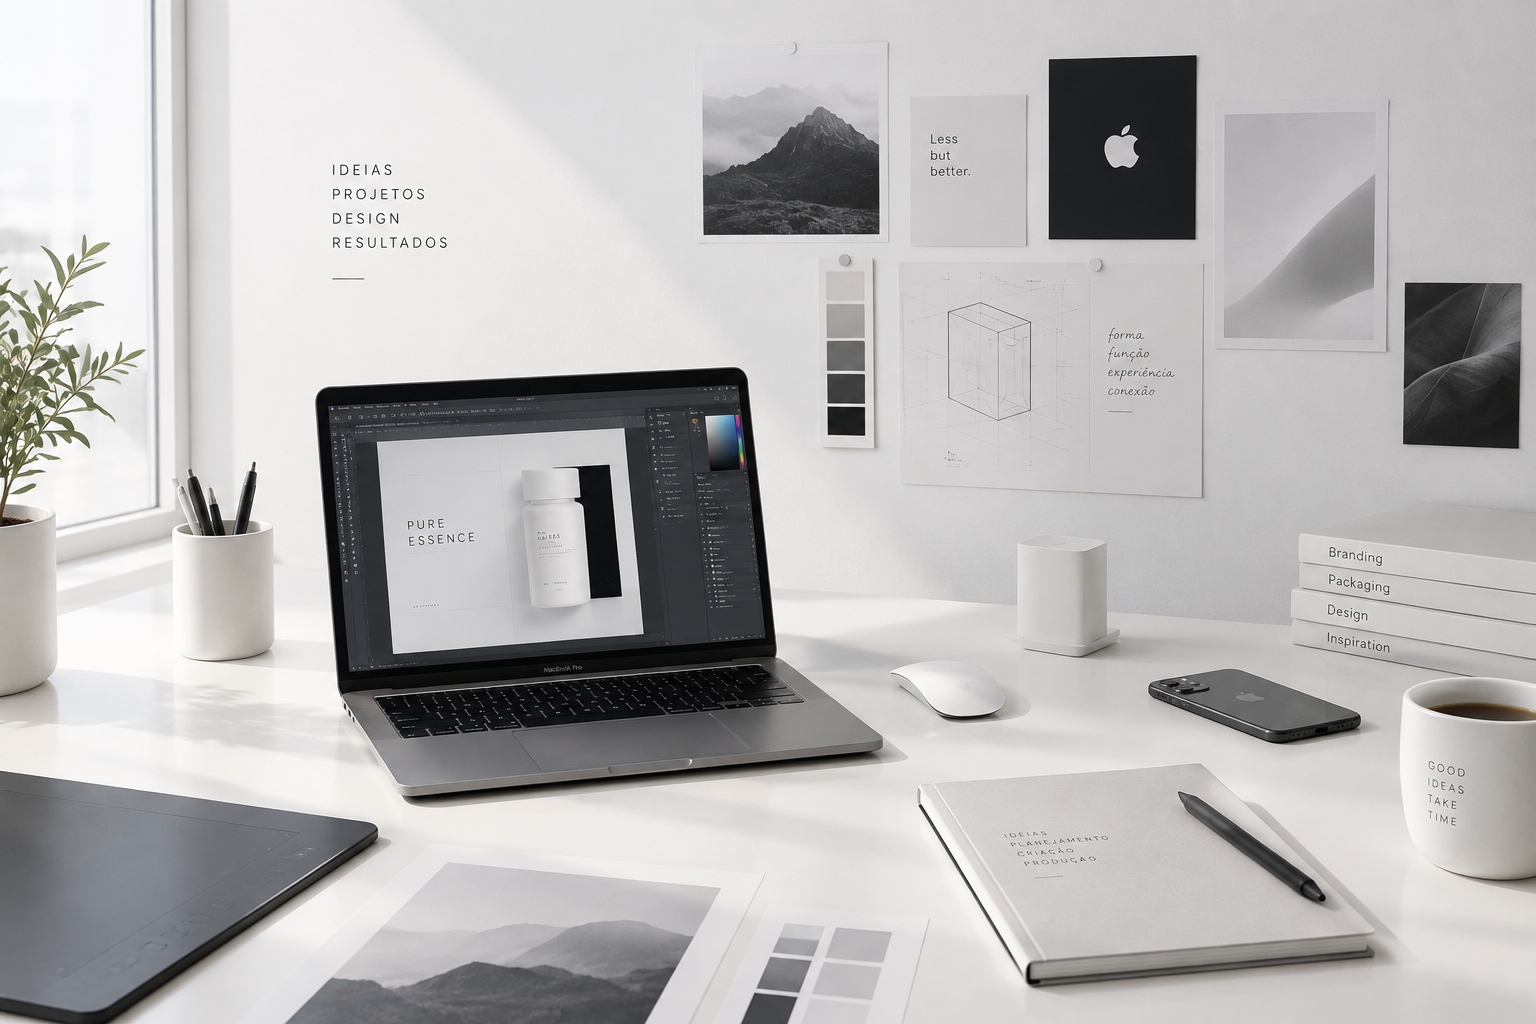
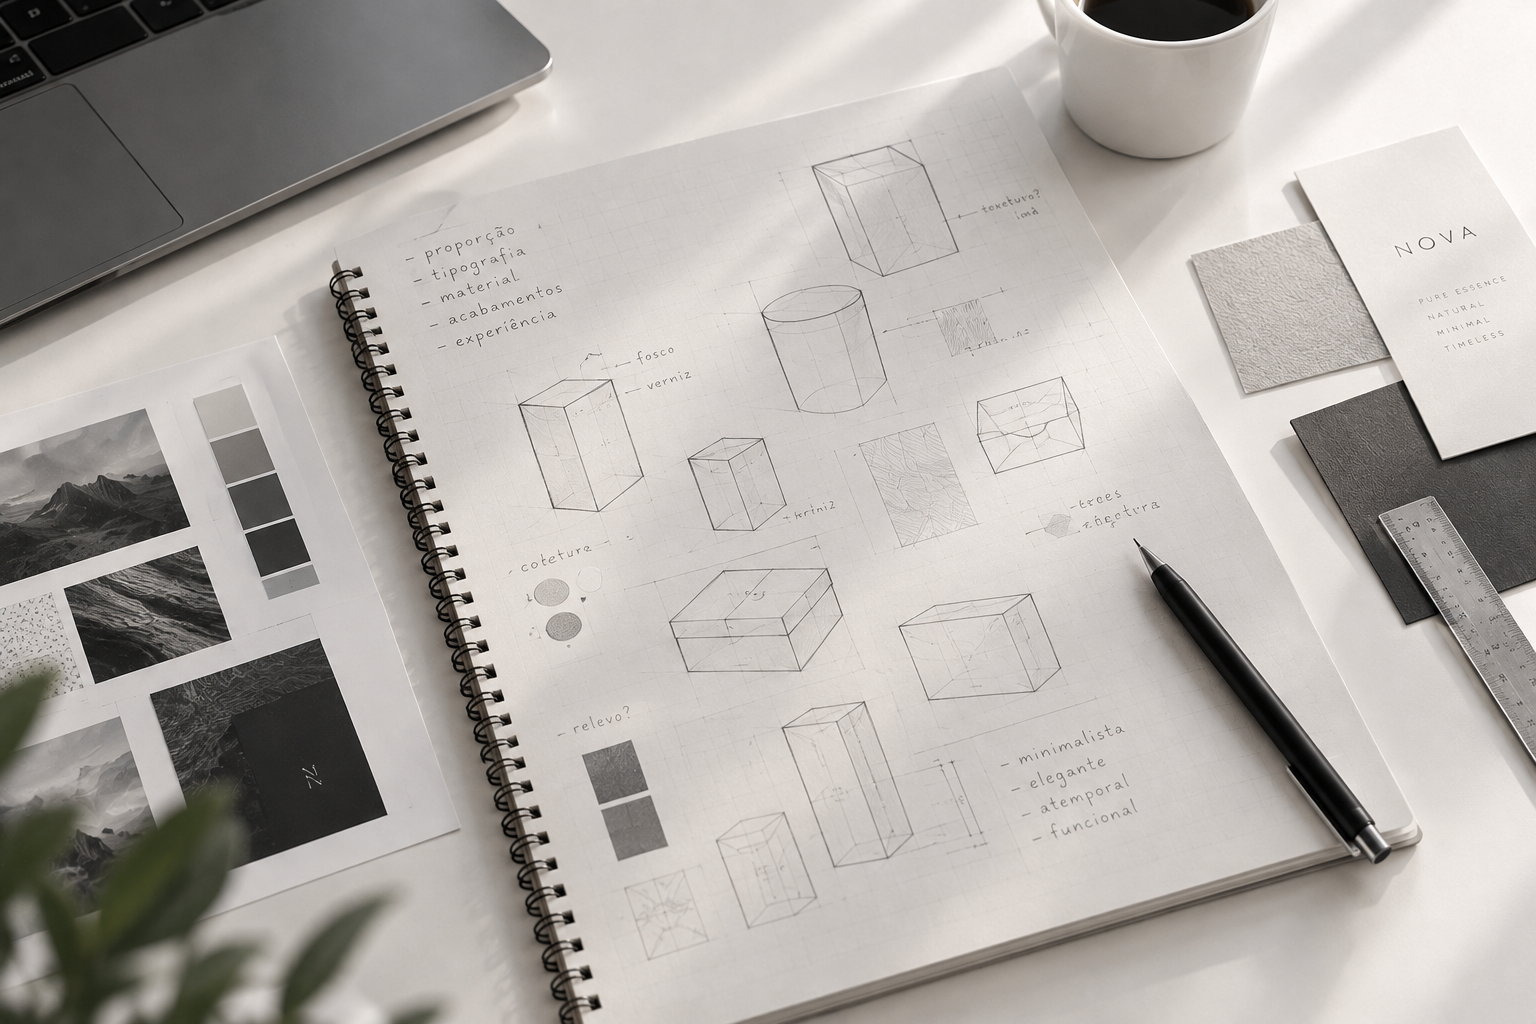
Adiciona menu lateral no mobile, troca capa de Experimentos e ajusta espaço do título

diff --git a/src/i18n/translations.ts b/src/i18n/translations.ts
@@ -8,6 +8,7 @@ export const traducoes: Record<Idioma, Record<string, string>> = {
 		"menu.idioma": "Idioma:",
 		"menu.idioma-atual": "Português",
 		"menu.trocar-idioma": "Mudar para inglês",
+		"menu.abrir": "Abrir menu",
 		"sobre.titulo": "Frank atuou como diretor de arte no redesign de grandes marcas",
 		"sobre.p1": "Me chamo Frank Alves, sou designer gráfico e moro em Florianópolis, Santa Catarina.",
 		"sobre.p2":
@@ -45,6 +46,7 @@ export const traducoes: Record<Idioma, Record<string, string>> = {
 		"menu.idioma": "Language:",
 		"menu.idioma-atual": "English",
 		"menu.trocar-idioma": "Switch to Portuguese",
+		"menu.abrir": "Open menu",
 		"sobre.titulo": "Frank worked as an art director on major brand redesigns",
 		"sobre.p1": "My name is Frank Alves, I'm a graphic designer based in Florianópolis, Santa Catarina.",
 		"sobre.p2":
